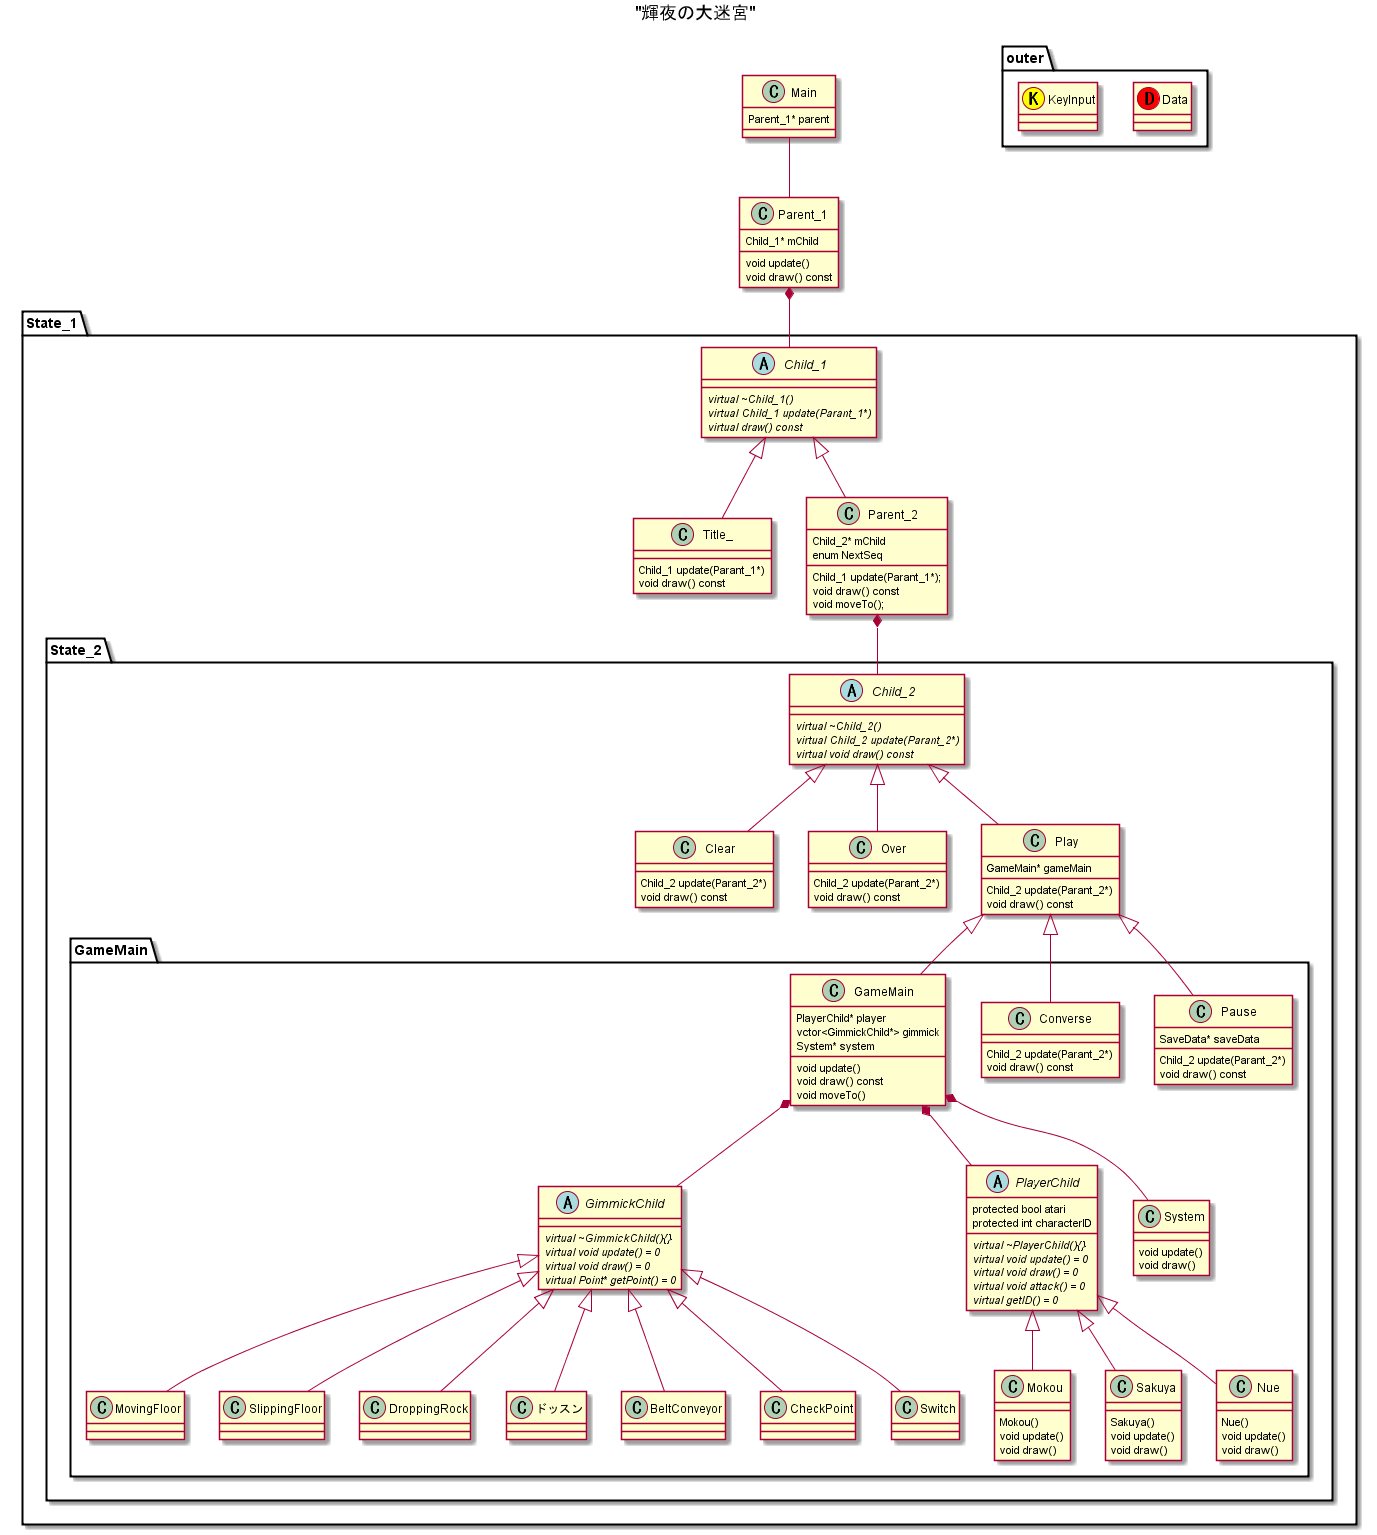
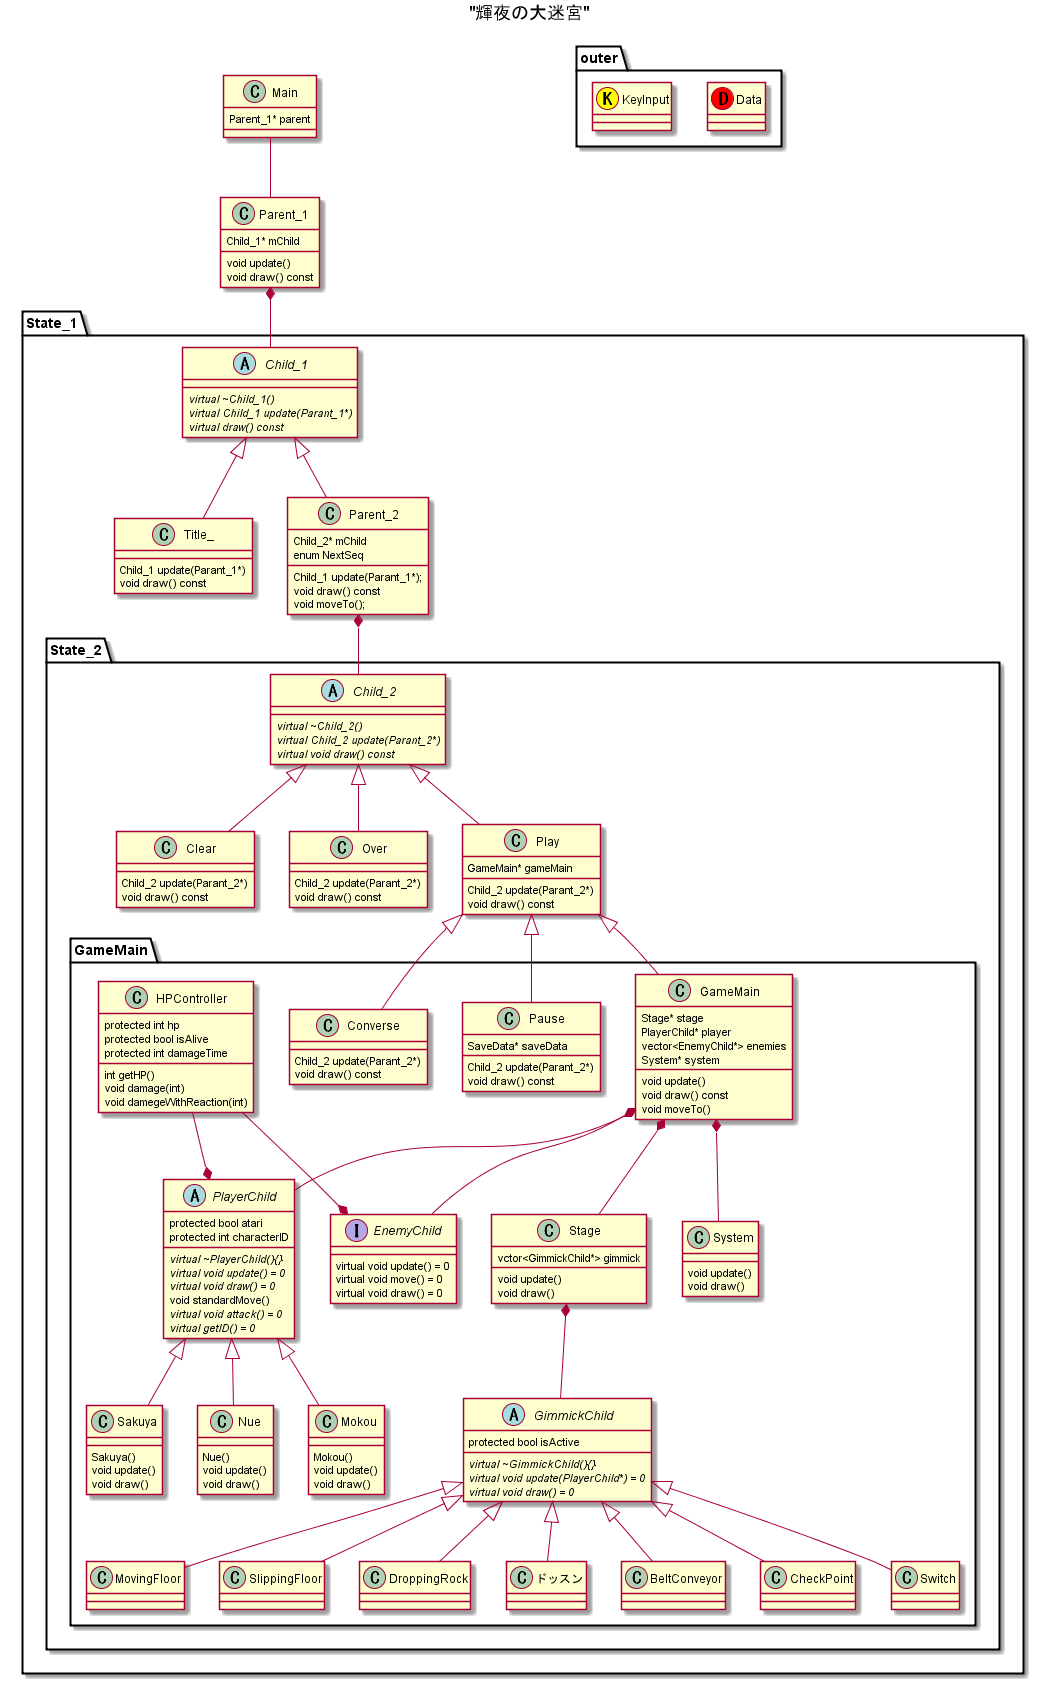
GimmickChild クラス図を変更
GimmickChildのupdateの引数にPlayerを追加。
StageがGimmickChildのvectorを持つようにした。

HPControllerとEnemyChildを新しく追加

diff --git a/src/StateNS/GameNS/GameMainNS/GameMain/HPController.cpp b/src/StateNS/GameNS/GameMainNS/GameMain/HPController.cpp
@@ -1,0 +1,44 @@
+#include "HPController.h"
+
+
+
+namespace StateNS {
+namespace GameNS {
+namespace GameMainNS{
+
+
+HPController::HPController() : HPController(100)
+{
+	
+}
+
+HPController::HPController(int _hp) : MAX_HP(_hp)
+{
+	this->HP = this->MAX_HP;
+}
+
+HPController::~HPController()
+{
+
+}
+
+void HPController::damage(int _val)
+{
+	this->HP = max(this->HP - _val, 0);
+}
+
+void HPController::damageWithAction(int _val)
+{
+	this->HP = max(this->HP - _val, 0);
+}
+
+void HPController::recover(int _val)
+{
+	this->HP = min(this->HP + _val, this->MAX_HP);
+}
+
+
+
+}
+}
+}

diff --git a/src/StateNS/GameNS/GameMainNS/GameMain/HPController.h b/src/StateNS/GameNS/GameMainNS/GameMain/HPController.h
@@ -1,0 +1,31 @@
+#pragma once
+
+#include "..\..\..\..\Data.h"
+
+
+namespace StateNS {
+namespace GameNS {
+namespace GameMainNS{
+
+
+class HPController
+{
+public:
+	HPController();
+	HPController(int HP);
+	~HPController();
+	void damage(int val);
+	void damageWithAction(int val);
+	void recover(int val);
+	int getHP() const { return HP; }
+	bool isAlive() const { return HP > 0; }
+
+private:
+	const int MAX_HP;
+	int HP;
+};
+
+
+}
+}
+}

diff --git a/src/StateNS/GameNS/GameMainNS/GameMain/Stage.h b/src/StateNS/GameNS/GameMainNS/GameMain/Stage.h
@@ -7,6 +7,7 @@ namespace GameNS {
 namespace GameMainNS{
 
 
+class PlayerChild;
 class GimmickChild;
 
 class Stage
@@ -15,7 +16,7 @@ public:
 	Stage(int stageID);
 	~Stage();
 	void initialize();
-	void update();
+	void update(PlayerChild*);
 	void draw(const Vector2* player) const;
 
 	enum ChipType

diff --git a/src/StateNS/GameNS/GameMainNS/GameMain.cpp b/src/StateNS/GameNS/GameMainNS/GameMain.cpp
@@ -33,8 +33,7 @@ Child* GameMain::update(GameParent* _parent)
 {
 	Child* next = this;
 
-	mStage->update();
-
+	mStage->update(mPlayer);
 	
 	PlayerChild* nextPlayer = mPlayer->update(mStage);
 

diff --git a/src/StateNS/GameNS/GameMainNS/GameMain/Gimmick/SlippingFloor.h b/src/StateNS/GameNS/GameMainNS/GameMain/Gimmick/SlippingFloor.h
@@ -18,7 +18,7 @@ public:
 	SlippingFloor();
 	~SlippingFloor();
 	void initialize();
-	void update();
+	void update(PlayerChild*);
 	void draw() const;
 
 private:

diff --git a/src/StateNS/GameNS/GameMainNS/GameMain/Gimmick/BeltConveyor.h b/src/StateNS/GameNS/GameMainNS/GameMain/Gimmick/BeltConveyor.h
@@ -18,7 +18,7 @@ public:
 	BeltConveyor();
 	~BeltConveyor();
 	void initialize();
-	void update();
+	void update(PlayerChild*);
 	void draw() const;
 
 private:

diff --git a/src/StateNS/GameNS/GameMainNS/GameMain/Gimmick/MovingFloor.h b/src/StateNS/GameNS/GameMainNS/GameMain/Gimmick/MovingFloor.h
@@ -18,7 +18,7 @@ public:
 	MovingFloor();
 	~MovingFloor();
 	void initialize();
-	void update();
+	void update(PlayerChild*);
 	void draw() const;
 
 private:

diff --git a/src/StateNS/GameNS/GameMainNS/GameMain/Gimmick/CheckPoint.h b/src/StateNS/GameNS/GameMainNS/GameMain/Gimmick/CheckPoint.h
@@ -18,7 +18,7 @@ public:
 	CheckPoint();
 	~CheckPoint();
 	void initialize();
-	void update();
+	void update(PlayerChild*);
 	void draw() const;
 
 private:

diff --git a/src/StateNS/GameNS/GameMainNS/GameMain/Gimmick/Dossunn.h b/src/StateNS/GameNS/GameMainNS/GameMain/Gimmick/Dossunn.h
@@ -18,7 +18,7 @@ public:
 	Dossunn();
 	~Dossunn();
 	void initialize();
-	void update();
+	void update(PlayerChild*);
 	void draw() const;
 
 private:
